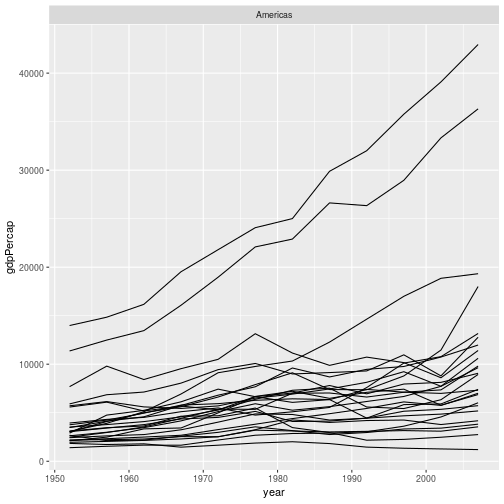
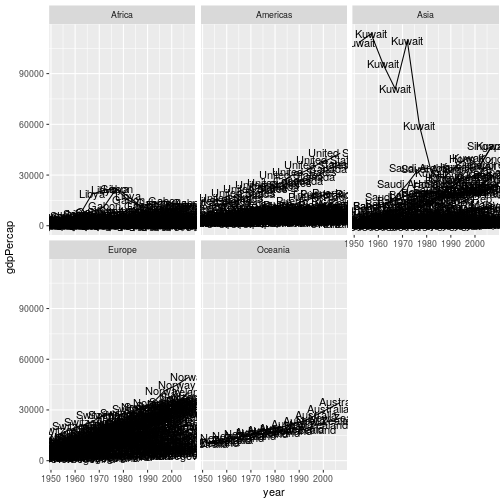
Use correct code in labels aside

diff --git a/_episodes/05-plot-ggplot2.md b/_episodes/05-plot-ggplot2.md
@@ -286,7 +286,7 @@ We have removed
 `colour=continent` from the aesthetic since colouring each line by continent conveys no additional
 information.  Note that the variable we are faceting by needs to be placed in quotes.
 
-> ## More on facetting
+> ## More on faceting
 > 
 > It's also possible to facet by one or two variables on a grid, using the `facet_grid()` function.  For example, we could plot life GDP per capita's relationship to life expectancy for each combination of continent and year 
 > using the following code:
@@ -355,20 +355,25 @@ information.  Note that the variable we are faceting by needs to be placed in qu
 > ## Aside: Interactively exploring graphs
 > 
 > There are some outlying data points in the solution to challenge 3.  You might be wondering which country these belong to.  Unfortunately there
-> isn't an easy way of doing this neatly in ggplot2.  One approach is to use `geom_label()` to label each data point with the country:
+> isn't an easy way of doing this neatly in ggplot2.  One approach is to use `geom_text()` to label each data point with the country (this uses the `label` aesthetic to select which variable in the data to use as the label):
 > 
 > 
 > ~~~
 > gapminder %>% 
->   ggplot(aes(x = year, y = gdpPercap, group = country)) +
->   geom_line() +
+>   ggplot(aes(x = year, y = gdpPercap, group = country, label = country)) +
+>   geom_line() + 
+>   geom_text() +
 >   facet_wrap("continent")
 > ~~~
 > {: .language-r}
 > 
+> <img src="../fig/rmd-06-unnamed-chunk-8-1.png" title="plot of chunk unnamed-chunk-8" alt="plot of chunk unnamed-chunk-8" style="display: block; margin: auto;" />
+> 
+> The output from this clearly isn't suitable for publication, but it may be sufficient if you just need to produce something for your own use.
+> 
 > The labels for each data point overlap each other, and are plotted for each data point.  You can deal with the latter issue by creating a new variable which only contains the label for one point per group (i.e per country), and for the groups you wish to label.  You can do this using `mutate` and `ifelse` as described at the end of the previous episode.
 > 
-> It's also possible to make a graph with "tooltips", so that the country pops up when you hover the mouse over a line.  `ggplot2` can't do this automatically, but an extension package [`ggiraph`](https://davidgohel.github.io/ggiraph/index.html) let's you do this.  The package's documentation has full examples.  
+> It's also possible to make a graph with "tooltips", so that the country pops up when you hover the mouse over a line.  `ggplot2` can't do this automatically, but an extension package [ggiraph`](https://davidgohel.github.io/ggiraph/index.html) provides this functionality.  The package's documentation has full examples.  
 > 
 {: .callout}
 
